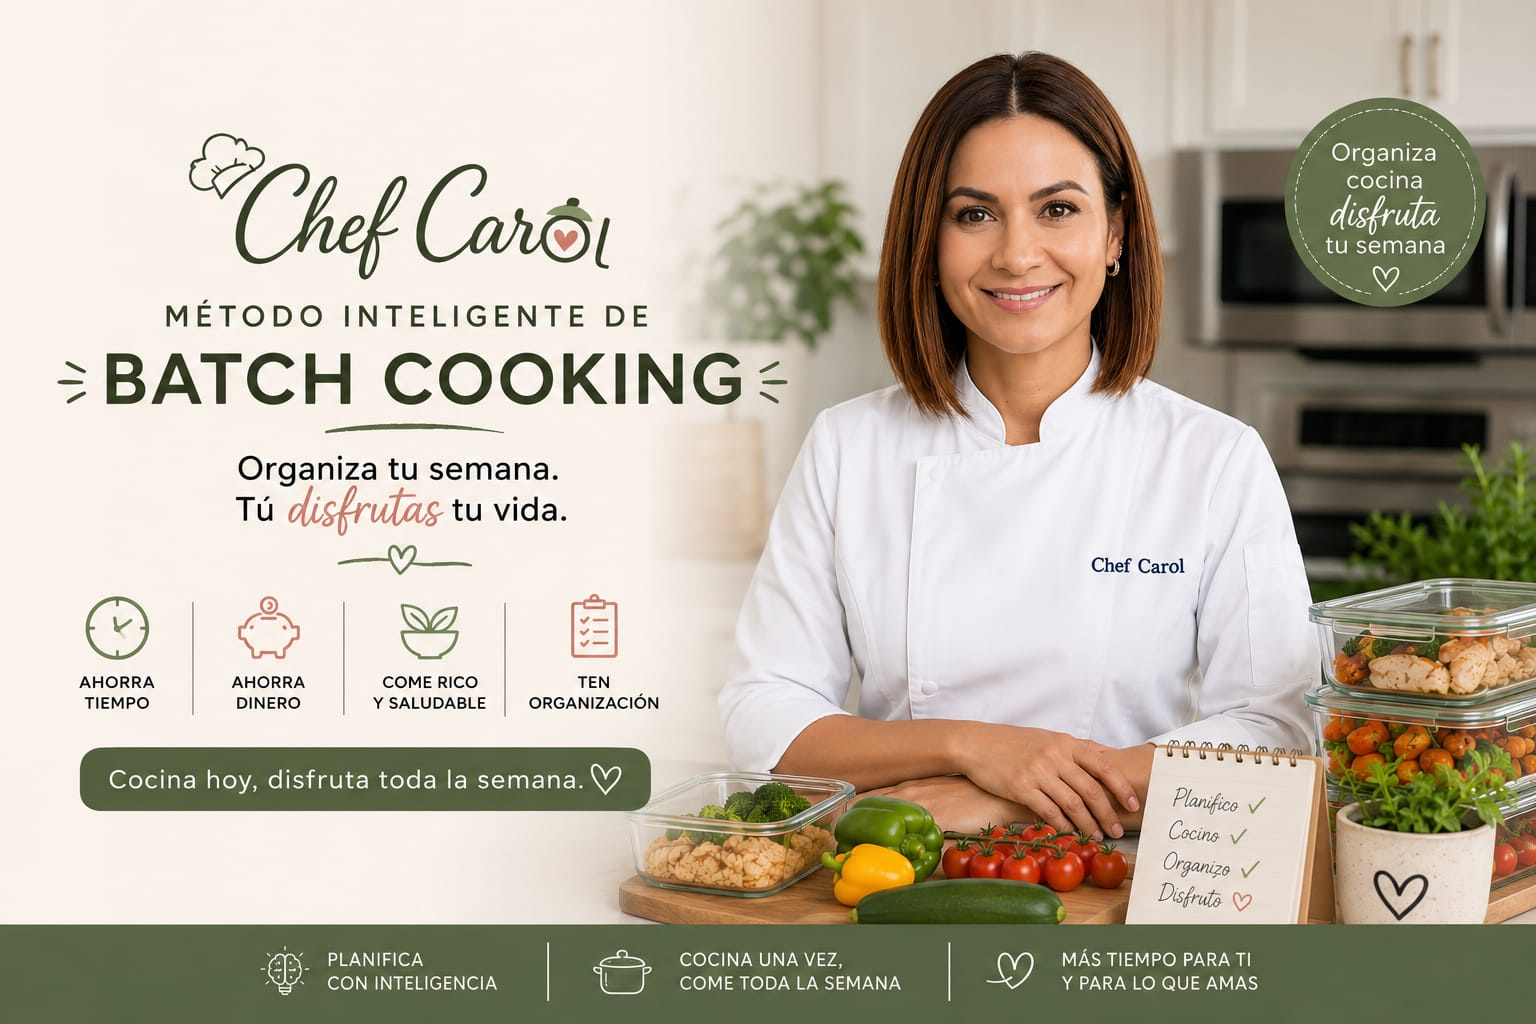
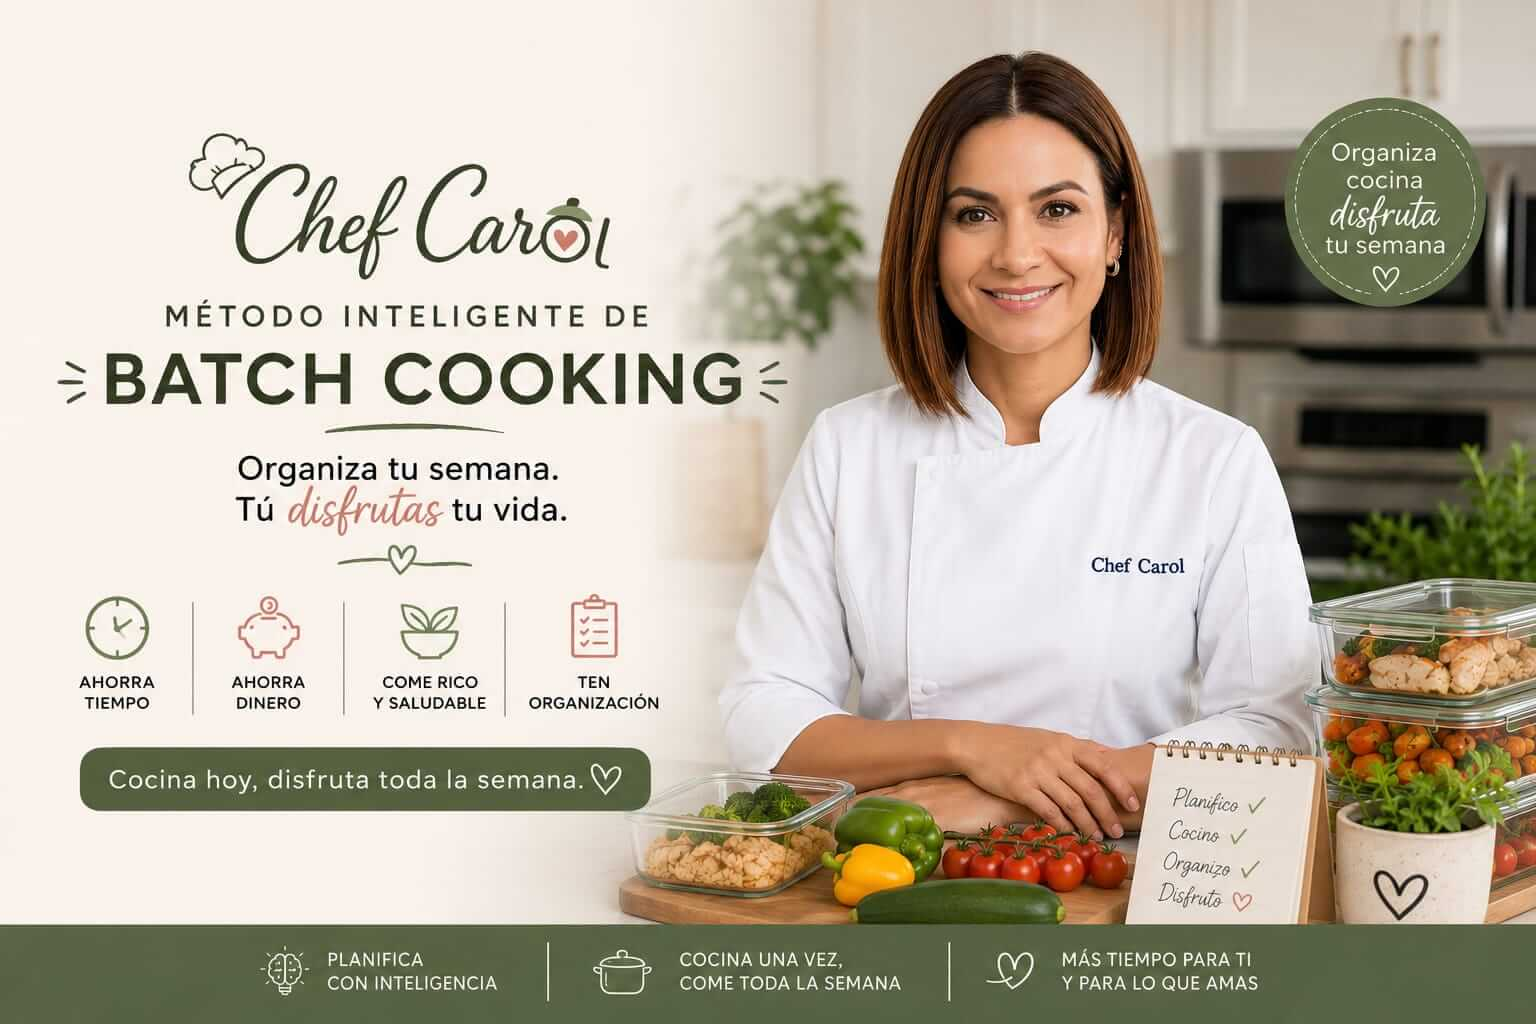
refactor(assets): update hero image source
Update the hero image to use an external Imgur URL as the primary source and set the local file as a fallback to improve reliability and image delivery.

Changed region(s): [[0.25, 0.6562, 0.3125, 0.6875], [0.1562, 0.6562, 0.1875, 0.6875], [0.0625, 0.6562, 0.0938, 0.6875]]

diff --git a/src/components/Hero.tsx b/src/components/Hero.tsx
@@ -35,14 +35,14 @@ export const Hero: React.FC<HeroProps> = ({ onCtaClick }) => {
         {/* Hero Image */}
         <div className="w-full max-w-2xl mb-8 overflow-hidden rounded-2xl sm:rounded-3xl border border-[#073B4C]/10 shadow-sm bg-white p-2 sm:p-2.5">
           <img
-            src="/hero-batch-cooking.jpg"
+            src="https://i.imgur.com/rgh2ivf.jpeg"
             width={1536}
             height={1024}
             fetchPriority="high"
             loading="eager"
             decoding="async"
             onError={(e) => {
-              (e.target as HTMLImageElement).src = 'https://i.imgur.com/5z4FRWx.jpeg';
+              (e.target as HTMLImageElement).src = '/hero-batch-cooking.jpg';
             }}
             alt="Método Inteligente de Batch Cooking - Planificación y preparación de comidas"
             className="w-full h-auto rounded-xl sm:rounded-2xl object-cover"

diff --git a/index.html b/index.html
@@ -15,7 +15,7 @@
     <link rel="dns-prefetch" href="https://i.imgur.com">
 
     <!-- Preload Hero LCP Image -->
-    <link rel="preload" as="image" href="/hero-batch-cooking.jpg" type="image/jpeg" fetchpriority="high" />
+    <link rel="preload" as="image" href="https://i.imgur.com/rgh2ivf.jpeg" type="image/jpeg" fetchpriority="high" />
 
     <!-- Non-render-blocking Google Fonts -->
     <link rel="preload" as="style" href="https://fonts.googleapis.com/css2?family=Montserrat:wght@400;500;600;700;800;900&family=Plus+Jakarta+Sans:wght@400;500;600;700&display=swap" />
